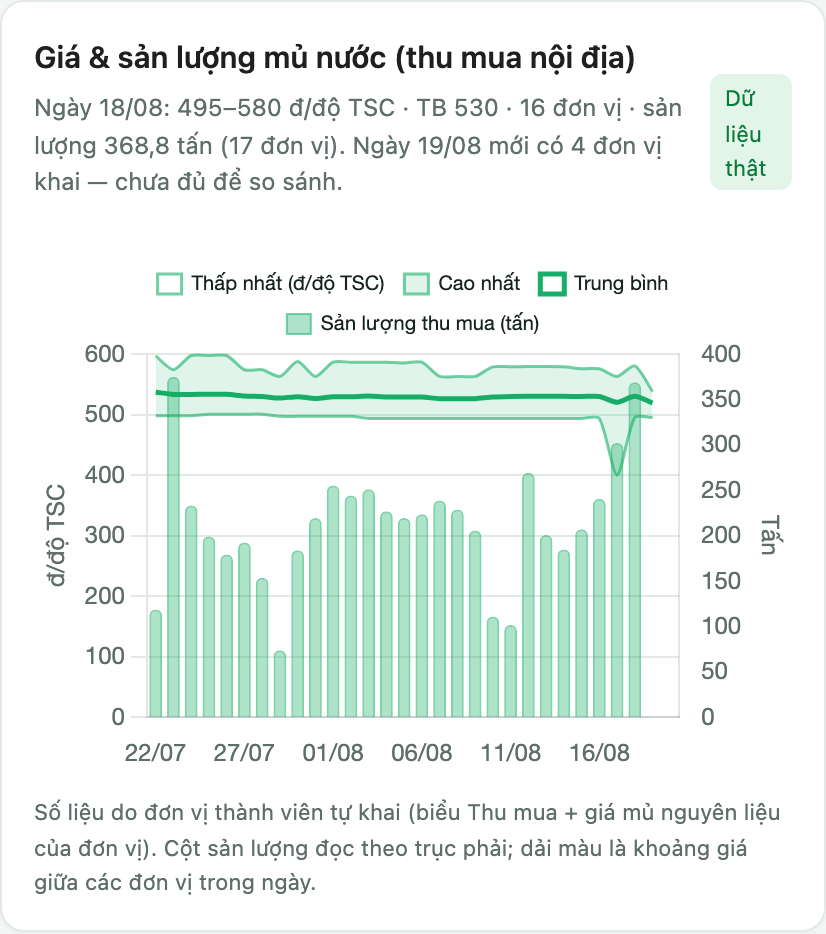
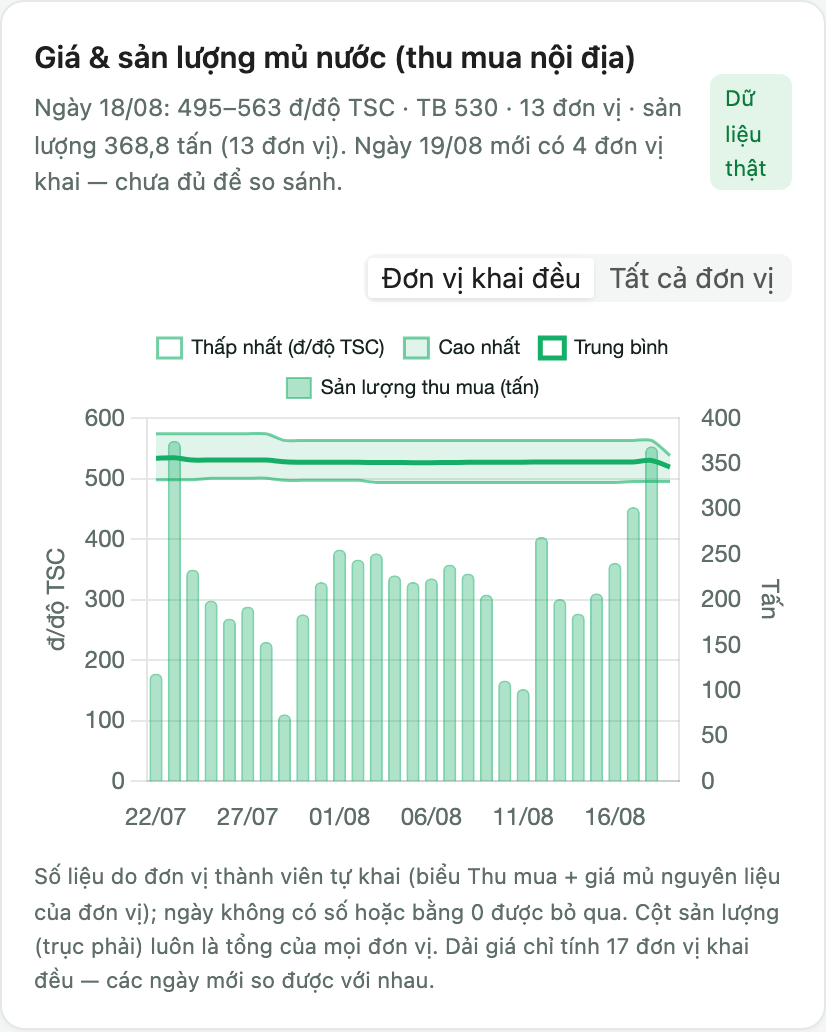
fix(dashboard): steady price basket and skip empty values in purchase charts
Daily price range jumped whenever an occasional low-price unit filed, which read
as a price crash. The range now defaults to units that report regularly (>=80% of
the most active unit's days), with an "all units" switch to see everything. Days
with no figures and zero volumes are skipped instead of drawn as gaps or zero
bars; purchase volume stays the total across every unit.

diff --git a/apps/web/src/features/command-center/sections/market-movement/RawMaterialBlock.tsx b/apps/web/src/features/command-center/sections/market-movement/RawMaterialBlock.tsx
@@ -1,9 +1,10 @@
+import { Segmented } from "antd";
 import { useEffect, useState } from "react";
 
-import { type PurchaseSeries, fetchPurchaseSeries } from "../../../../lib/api-client";
+import { type PriceBasket, type PurchaseSeries, fetchPurchaseSeries } from "../../../../lib/api-client";
 import { dm } from "../../../../lib/date";
-import { readAt, thinNote } from "../../../../lib/purchase-series";
 import { CUP_PRICE_UNIT_SHORT, LATEX_PRICE_UNIT_SHORT } from "../../../../lib/purchase-price-unit";
+import { readAt, thinNote } from "../../../../lib/purchase-series";
 import PriceVolumeChart from "../../charts/PriceVolumeChart";
 
 const vnum = (n: number, d = 0) => n.toLocaleString("vi-VN", { maximumFractionDigits: d });
@@ -15,6 +16,11 @@ type Kind = { key: "latex" | "cup"; title: string; unit: string; color: string }
 const KINDS: Kind[] = [
   { key: "latex", title: "Giá & sản lượng mủ nước (thu mua nội địa)", unit: LATEX_PRICE_UNIT_SHORT, color: "#16AF67" },
   { key: "cup", title: "Giá & sản lượng mủ chén (thu mua nội địa)", unit: CUP_PRICE_UNIT_SHORT, color: "#a855f7" },
+];
+
+const BASKETS: { value: PriceBasket; label: string }[] = [
+  { value: "steady", label: "Đơn vị khai đều" },
+  { value: "all", label: "Tất cả đơn vị" },
 ];
 
 const from = (days: number) => {
@@ -36,16 +42,19 @@ function caption(rows: PurchaseSeries["rows"], k: Kind): string {
 }
 
 /** Giá & sản lượng thu mua mủ nguyên liệu — CÙNG một nguồn: số đơn vị thành viên tự khai.
- *  Cột = sản lượng thu mua trong ngày, dải + đường = khoảng đơn giá giữa các đơn vị. */
+ *  Cột = sản lượng thu mua trong ngày, dải + đường = khoảng đơn giá giữa các đơn vị.
+ *  Ô trống và giá trị 0 bị bỏ qua (không vẽ) để chuỗi không giật vì hôm có hôm không. */
 export default function RawMaterialBlock() {
+  const [basket, setBasket] = useState<PriceBasket>("steady");
   const [series, setSeries] = useState<PurchaseSeries | null>(null);
   const [err, setErr] = useState("");
 
   useEffect(() => {
-    fetchPurchaseSeries(from(WINDOW_DAYS))
+    setSeries(null);
+    fetchPurchaseSeries(from(WINDOW_DAYS), undefined, basket)
       .then(setSeries)
       .catch((e) => setErr(e instanceof Error ? e.message : "Lỗi tải dữ liệu"));
-  }, []);
+  }, [basket]);
 
   return (
     <div className="grid-2">
@@ -66,6 +75,11 @@ export default function RawMaterialBlock() {
               : !ready ? <div className="scan-empty">Đơn vị thành viên chưa khai giá/sản lượng loại mủ này.</div>
               : (
                 <>
+                  {/* Nút chọn rổ để riêng một hàng: card nằm nửa màn hình, nhét vào cạnh tiêu đề là vỡ chữ. */}
+                  <div style={{ display: "flex", justifyContent: "flex-end", marginBottom: 8 }}>
+                    <Segmented size="small" value={basket} options={BASKETS}
+                               onChange={(v) => setBasket(v as PriceBasket)} />
+                  </div>
                   <div className="chart-wrap">
                     <PriceVolumeChart
                       labels={rows.map((r) => dm(r.as_of))}
@@ -78,8 +92,11 @@ export default function RawMaterialBlock() {
                     />
                   </div>
                   <p style={{ color: "var(--muted)", fontSize: 11, margin: "10px 0 0" }}>
-                    Số liệu do đơn vị thành viên tự khai (biểu Thu mua + giá mủ nguyên liệu của đơn vị).
-                    Cột sản lượng đọc theo trục phải; dải màu là khoảng giá giữa các đơn vị trong ngày.
+                    Số liệu do đơn vị thành viên tự khai (biểu Thu mua + giá mủ nguyên liệu của đơn vị);
+                    ngày không có số hoặc bằng 0 được bỏ qua. Cột sản lượng (trục phải) luôn là tổng
+                    của mọi đơn vị. Dải giá {basket === "steady"
+                      ? `chỉ tính ${series.basket_units[k.key]} đơn vị khai đều — các ngày mới so được với nhau`
+                      : "tính trên mọi đơn vị có khai — đáy/đỉnh nhảy theo việc hôm đó ai nộp"}.
                   </p>
                 </>
               )}

diff --git a/apps/web/src/lib/api-client.ts b/apps/web/src/lib/api-client.ts
@@ -111,17 +111,23 @@ export type PurchaseDayStat = {
   qty_units: number;      // số đơn vị đã khai SẢN LƯỢNG
 };
 
+/** Rổ tính dải giá: `steady` = chỉ đơn vị khai đều (các ngày so được với nhau) · `all` = mọi đơn vị. */
+export type PriceBasket = "steady" | "all";
+
 export type PurchaseSeries = {
   date_from: string;
   date_to: string;
+  basket: PriceBasket;
+  basket_units: { latex: number; cup: number };     // số đơn vị trong rổ giá
   rows: { as_of: string; latex: PurchaseDayStat; cup: PurchaseDayStat }[];   // ngày TĂNG dần
 };
 
 /** Mủ nước & mủ chén theo ngày — sản lượng + dải giá, cùng gốc "đơn vị thành viên tự khai". */
-export const fetchPurchaseSeries = (dateFrom?: string, dateTo?: string) => {
+export const fetchPurchaseSeries = (dateFrom?: string, dateTo?: string, basket?: PriceBasket) => {
   const p = new URLSearchParams();
   if (dateFrom) p.set("date_from", dateFrom);
   if (dateTo) p.set("date_to", dateTo);
+  if (basket) p.set("basket", basket);
   return req<PurchaseSeries>(`/api/prices/purchase-series?${p}`);
 };
 

diff --git a/apps/web/src/features/command-center/sections/market-movement/summary.ts b/apps/web/src/features/command-center/sections/market-movement/summary.ts
@@ -240,7 +240,7 @@ export async function buildSummaries(): Promise<GroupMeta[]> {
       "Giá sàn công bố mới nhất vs giá thị trường phiên gần nhất — /api/floor + /api/prices/sheet",
       floorData.range, floorData.asOf),
     mk("raw", "Giá & sản lượng mủ nước, mủ chén nội địa", rawLine,
-      "Đơn giá + sản lượng thu mua do đơn vị thành viên tự khai — /api/prices/purchase-series",
+      "Đơn giá (rổ đơn vị khai đều) + sản lượng thu mua do đơn vị thành viên tự khai — /api/prices/purchase-series",
       usedRange(rawDates, "ngày"), latestOf(rawDates)),
   ];
 }

diff --git a/apps/web/src/features/command-center/charts/PriceVolumeChart.tsx b/apps/web/src/features/command-center/charts/PriceVolumeChart.tsx
@@ -17,7 +17,9 @@ export default function PriceVolumeChart(
 ) {
   const pointRadius = labels.length <= 20 ? 3 : 0;
   const suffix = unit ? ` (${unit})` : "";
-  const line = { yAxisID: "y", order: 1, tension: 0.25, pointRadius, pointHoverRadius: pointRadius + 2 };
+  // spanGaps: ngày lẻ thiếu giá thì nối liền qua, không cắt đường thành từng mẩu.
+  const line = { yAxisID: "y", order: 1, tension: 0.25, pointRadius,
+                 pointHoverRadius: pointRadius + 2, spanGaps: true };
 
   const data: ChartData<"bar" | "line"> = {
     labels,

diff --git a/apps/api/app/services/unit_series.py b/apps/api/app/services/unit_series.py
@@ -50,6 +50,32 @@ def _num(v: Any) -> float | None:
         return None
 
 
+#: Rổ giá "đơn vị khai đều": đơn vị phải có giá ít nhất ngần này phần số ngày trong kỳ.
+#: Dải thấp nhất–cao nhất chỉ có nghĩa khi các ngày được so trên CÙNG một rổ đơn vị. Thực tế mủ chén:
+#: 17/27 đơn vị khai đều, 8 đơn vị khai lác đác (<10/30 ngày) — hôm có hôm không, và mấy đơn vị đó
+#: lại ở vùng giá thấp nên đáy của biểu đồ nhảy dựng đứng đúng những ngày họ nộp, trông như giá lao dốc.
+STEADY_RATIO = 0.8
+
+BASKETS = ("steady", "all")
+
+
+def _steady_units(prices: dict[str, dict[str, dict[str, float]]], material: str) -> set[str]:
+    """Các đơn vị khai giá đều đặn cho loại mủ này.
+
+    Ngưỡng so với **đơn vị chăm nhất trong kỳ**, không so với số ngày lịch: kỳ có cuối tuần / ngày
+    nghỉ hay kỳ trải dài trước lúc đơn vị bắt đầu nhập thì không đơn vị nào đạt mốc theo ngày lịch,
+    rổ sẽ rỗng và biểu đồ mất sạch dải giá.
+    """
+    counted: dict[str, int] = {}
+    for day in prices.values():
+        for company in day.get(material, {}):
+            counted[company] = counted.get(company, 0) + 1
+    if not counted:
+        return set()
+    need = max(1, round(max(counted.values()) * STEADY_RATIO))
+    return {c for c, n in counted.items() if n >= need}
+
+
 def _stats(values: list[float]) -> dict[str, Any]:
     """Dải giá của một ngày qua các đơn vị: thấp nhất · cao nhất · trung bình · số đơn vị."""
     if not values:
@@ -58,12 +84,17 @@ def _stats(values: list[float]) -> dict[str, Any]:
             "units": len(values)}
 
 
-def purchase_series(date_from: str, date_to: str) -> dict[str, Any]:
+def purchase_series(date_from: str, date_to: str, basket: str = "steady") -> dict[str, Any]:
     """Mủ nước & mủ chén theo ngày: sản lượng thu mua (tấn) + dải đơn giá của các đơn vị.
 
     Giá lấy lớp **đơn vị tự khai** (`vrg_unit`) để cùng nguồn với sản lượng; đơn vị nước ngoài khai
     giá nội tệ thì quy ra VND bằng tỷ giá của chính bản ghi ngày đó (giống `unit_report_rows`).
     Ngày đơn vị có giá nhưng chưa khai sản lượng vẫn được tính vào dải giá — và ngược lại.
+
+    `basket="steady"` (mặc định): dải giá chỉ tính trên **đơn vị khai đều** → các ngày so được với
+    nhau. `basket="all"` lấy mọi đơn vị (đúng hơn về phạm vi, nhưng đáy/đỉnh nhảy theo việc hôm nay
+    ai nộp). **Sản lượng LUÔN là tổng của mọi đơn vị** — đó là con số cộng, không phải thống kê phân
+    tán, lọc bớt là báo thiếu hàng. Giá trị 0 / không có số bị bỏ qua ở cả hai chế độ.
     """
     px = price_repo.purchase_prices_in_range(date_from, date_to, PURCHASE_SOURCE_UNIT)
     entries = unit_daily_repo.in_range("purchase", date_from, date_to, attach_contracts=False)
@@ -89,15 +120,27 @@ def purchase_series(date_from: str, date_to: str) -> dict[str, Any]:
             if q is not None:
                 qty.setdefault(day, {}).setdefault(material, {})[company] = q
 
+    days = days_between(date_from, date_to)
+    basket = basket if basket in BASKETS else "steady"
+    steady = {m: _steady_units(prices, m) for m in ("latex", "cup")}
+
     rows = []
-    for day in days_between(date_from, date_to):
+    for day in days:
         row: dict[str, Any] = {"as_of": day}
         for material in ("latex", "cup"):
-            q = qty.get(day, {}).get(material, {})
-            row[material] = {
-                **_stats(sorted(prices.get(day, {}).get(material, {}).values())),
-                "qty": round(sum(q.values()), 3) if q else None,
-                "qty_units": len(q),
-            }
+            px_day = prices.get(day, {}).get(material, {})
+            if basket == "steady":
+                px_day = {c: v for c, v in px_day.items() if c in steady[material]}
+            # Sản lượng 0 = có tổ chức mua nhưng không mua được → KHÔNG phải một mức sản lượng,
+            # bỏ qua như ô trống (yêu cầu 20/08: chuỗi không được giật vì số rỗng/bằng 0).
+            q = {c: v for c, v in qty.get(day, {}).get(material, {}).items() if v}
+            total = round(sum(q.values()), 3) if q else None
+            stats = _stats(sorted(px_day.values()))
+            row[material] = {**stats, "qty": total, "qty_units": len(q)}
         rows.append(row)
-    return {"date_from": date_from, "date_to": date_to, "rows": rows}
+
+    # Ngày không có gì (cả 2 loại mủ đều trống) không được vẽ thành khoảng trống giữa biểu đồ.
+    rows = [r for r in rows if any(r[m]["units"] or r[m]["qty"] for m in ("latex", "cup"))]
+    return {"date_from": date_from, "date_to": date_to, "basket": basket,
+            "basket_units": {m: len(steady[m]) for m in ("latex", "cup")},
+            "rows": rows}

diff --git a/apps/api/tests/test_unit_series.py b/apps/api/tests/test_unit_series.py
@@ -74,10 +74,14 @@ def test_price_without_volume_still_counted(clean) -> None:
 
 
 def test_hq_price_layer_is_ignored(clean) -> None:
-    """Chuỗi này chỉ đọc lớp ĐƠN VỊ tự khai — số chuyên viên chốt không được trộn vào."""
+    """Chuỗi này chỉ đọc lớp ĐƠN VỊ tự khai — số chuyên viên chốt không được trộn vào.
+
+    Không dùng `_row`: giá lớp chuyên viên KHÔNG tạo ra số liệu nào cho ngày đó, mà ngày rỗng thì
+    đã bị loại khỏi chuỗi — trên DB sạch `rows` rỗng hẳn.
+    """
     _price(UNIT, 888888, source=PURCHASE_SOURCE_HQ)
-    row = _row(unit_series.purchase_series(DAY, DAY), DAY)
-    assert (row["latex"]["max"] or 0) != 888888
+    rows = unit_series.purchase_series(DAY, DAY)["rows"]
+    assert all((r["latex"]["max"] or 0) != 888888 for r in rows)
 
 
 def test_foreign_unit_local_price_converted(clean) -> None:
@@ -146,3 +150,32 @@ def test_window_clamps_to_floor_and_max_span() -> None:
     assert a == st.STOCK_START
     a2, b2 = unit_series.window("2020-01-01", DAY)
     assert (date.fromisoformat(b2) - date.fromisoformat(a2)).days == unit_series.MAX_WINDOW_DAYS - 1
+
+
+# ── Rổ giá & bỏ số rỗng/bằng 0 ─────────────────────────────────────────────────
+def test_zero_volume_is_not_a_volume(clean) -> None:
+    """Sản lượng 0 (có tổ chức mua nhưng không mua được) không được vẽ thành cột 0."""
+    far = (date.today() - timedelta(days=395)).isoformat()   # ngày xa hẳn dữ liệu thật trong DB
+    _price(UNIT, 500, as_of=far)
+    unit_daily_repo.upsert("purchase", far, UNIT, {"latex_wet": 0}, "test")
+    row = _row(unit_series.purchase_series(far, far), far)
+    assert (row["latex"]["qty"], row["latex"]["qty_units"]) == (None, 0)
+    assert row["latex"]["units"] == 1        # ngày vẫn còn vì có đơn giá
+
+
+def test_days_without_any_number_are_dropped(clean) -> None:
+    """Ngày không có giá lẫn sản lượng của cả hai loại mủ thì không nằm trong chuỗi."""
+    far = (date.today() - timedelta(days=400)).isoformat()   # xa hẳn dữ liệu thật trong DB
+    assert unit_series.purchase_series(far, far)["rows"] == []
+
+
+def test_steady_basket_drops_occasional_units(clean) -> None:
+    """Đơn vị chỉ khai 1 ngày không được kéo đáy dải giá của riêng ngày đó."""
+    days = [(date.fromisoformat(DAY) - timedelta(days=i)).isoformat() for i in range(6)]
+    for d in days:                                  # đơn vị khai ĐỀU, giá cao
+        _price(UNIT, 500, as_of=d)
+    _price(LAO, 100, as_of=DAY)                     # đơn vị khai LÁC ĐÁC, giá thấp
+
+    steady = _row(unit_series.purchase_series(days[-1], DAY), DAY)["latex"]
+    every = _row(unit_series.purchase_series(days[-1], DAY, "all"), DAY)["latex"]
+    assert every["min"] <= 100 < steady["min"]      # rổ "all" thấy đáy 100, rổ mặc định thì không

diff --git a/apps/api/app/routers/prices.py b/apps/api/app/routers/prices.py
@@ -131,6 +131,8 @@ def purchase_sheet(
 def purchase_series(
     date_from: str | None = Query(None, description="từ ngày YYYY-MM-DD"),
     date_to: str | None = Query(None, description="đến ngày YYYY-MM-DD"),
+    basket: str = Query("steady", pattern="^(steady|all)$",
+                        description="rổ tính dải giá: steady = chỉ đơn vị khai đều"),
 ) -> dict:
     """Mủ nước & mủ chén theo ngày: SẢN LƯỢNG thu mua (tấn) + dải đơn giá của các đơn vị.
 
@@ -138,7 +140,7 @@ def purchase_series(
     đơn giá luôn cùng một gốc; khác `purchase-sheet` (lưới giá lớp chuyên viên chốt, không có sản lượng).
     """
     a, b = unit_series.window(date_from, date_to)
-    return unit_series.purchase_series(a, b)
+    return unit_series.purchase_series(a, b, basket)
 
 
 @router.delete("/purchase")

diff --git a/docs/project/project-changelog.md b/docs/project/project-changelog.md
@@ -20,6 +20,11 @@ Ghi nhận thay đổi đáng kể. Định dạng theo [Keep a Changelog](https
   - **Nhận định AI** của Bản tin biến động dùng đúng nguồn này: nhóm Tồn kho nói thêm **chủng loại**
     và **khu vực** lớn nhất, nhóm mủ nguyên liệu có thêm **sản lượng**.
   - API mới (chỉ đọc, chỉ cần đăng nhập): `GET /api/inventory/series` · `GET /api/prices/purchase-series`.
+- **Biểu đồ thu mua mủ hết "giật"** (phản hồi 20/08/2026): ngày không có số hoặc bằng 0 bị **bỏ qua**
+  (không vẽ cột 0, không để khoảng trống giữa chuỗi), và dải giá mặc định chỉ tính trên **rổ đơn vị
+  khai đều** (đơn vị có giá ≥ 80% số ngày của đơn vị chăm nhất) — có nút *"Tất cả đơn vị"* để xem
+  toàn bộ. Trước đó đáy/đỉnh nhảy dựng đứng chỉ vì hôm đó có thêm một đơn vị vùng giá thấp nộp muộn,
+  nhìn như giá lao dốc. **Cột sản lượng luôn là tổng của mọi đơn vị** (số cộng, lọc bớt là báo thiếu hàng).
 - **Tự động lấy giá mủ nguyên liệu từ đơn vị thành viên** (chốt 20/08/2026) — chuyên viên không phải
   gõ lại con số đơn vị vừa nộp:
   - Nút **"Tự động lấy số từ đơn vị"** ngay trên màn *Giá mủ nguyên liệu*: **công tắc tổng** +
